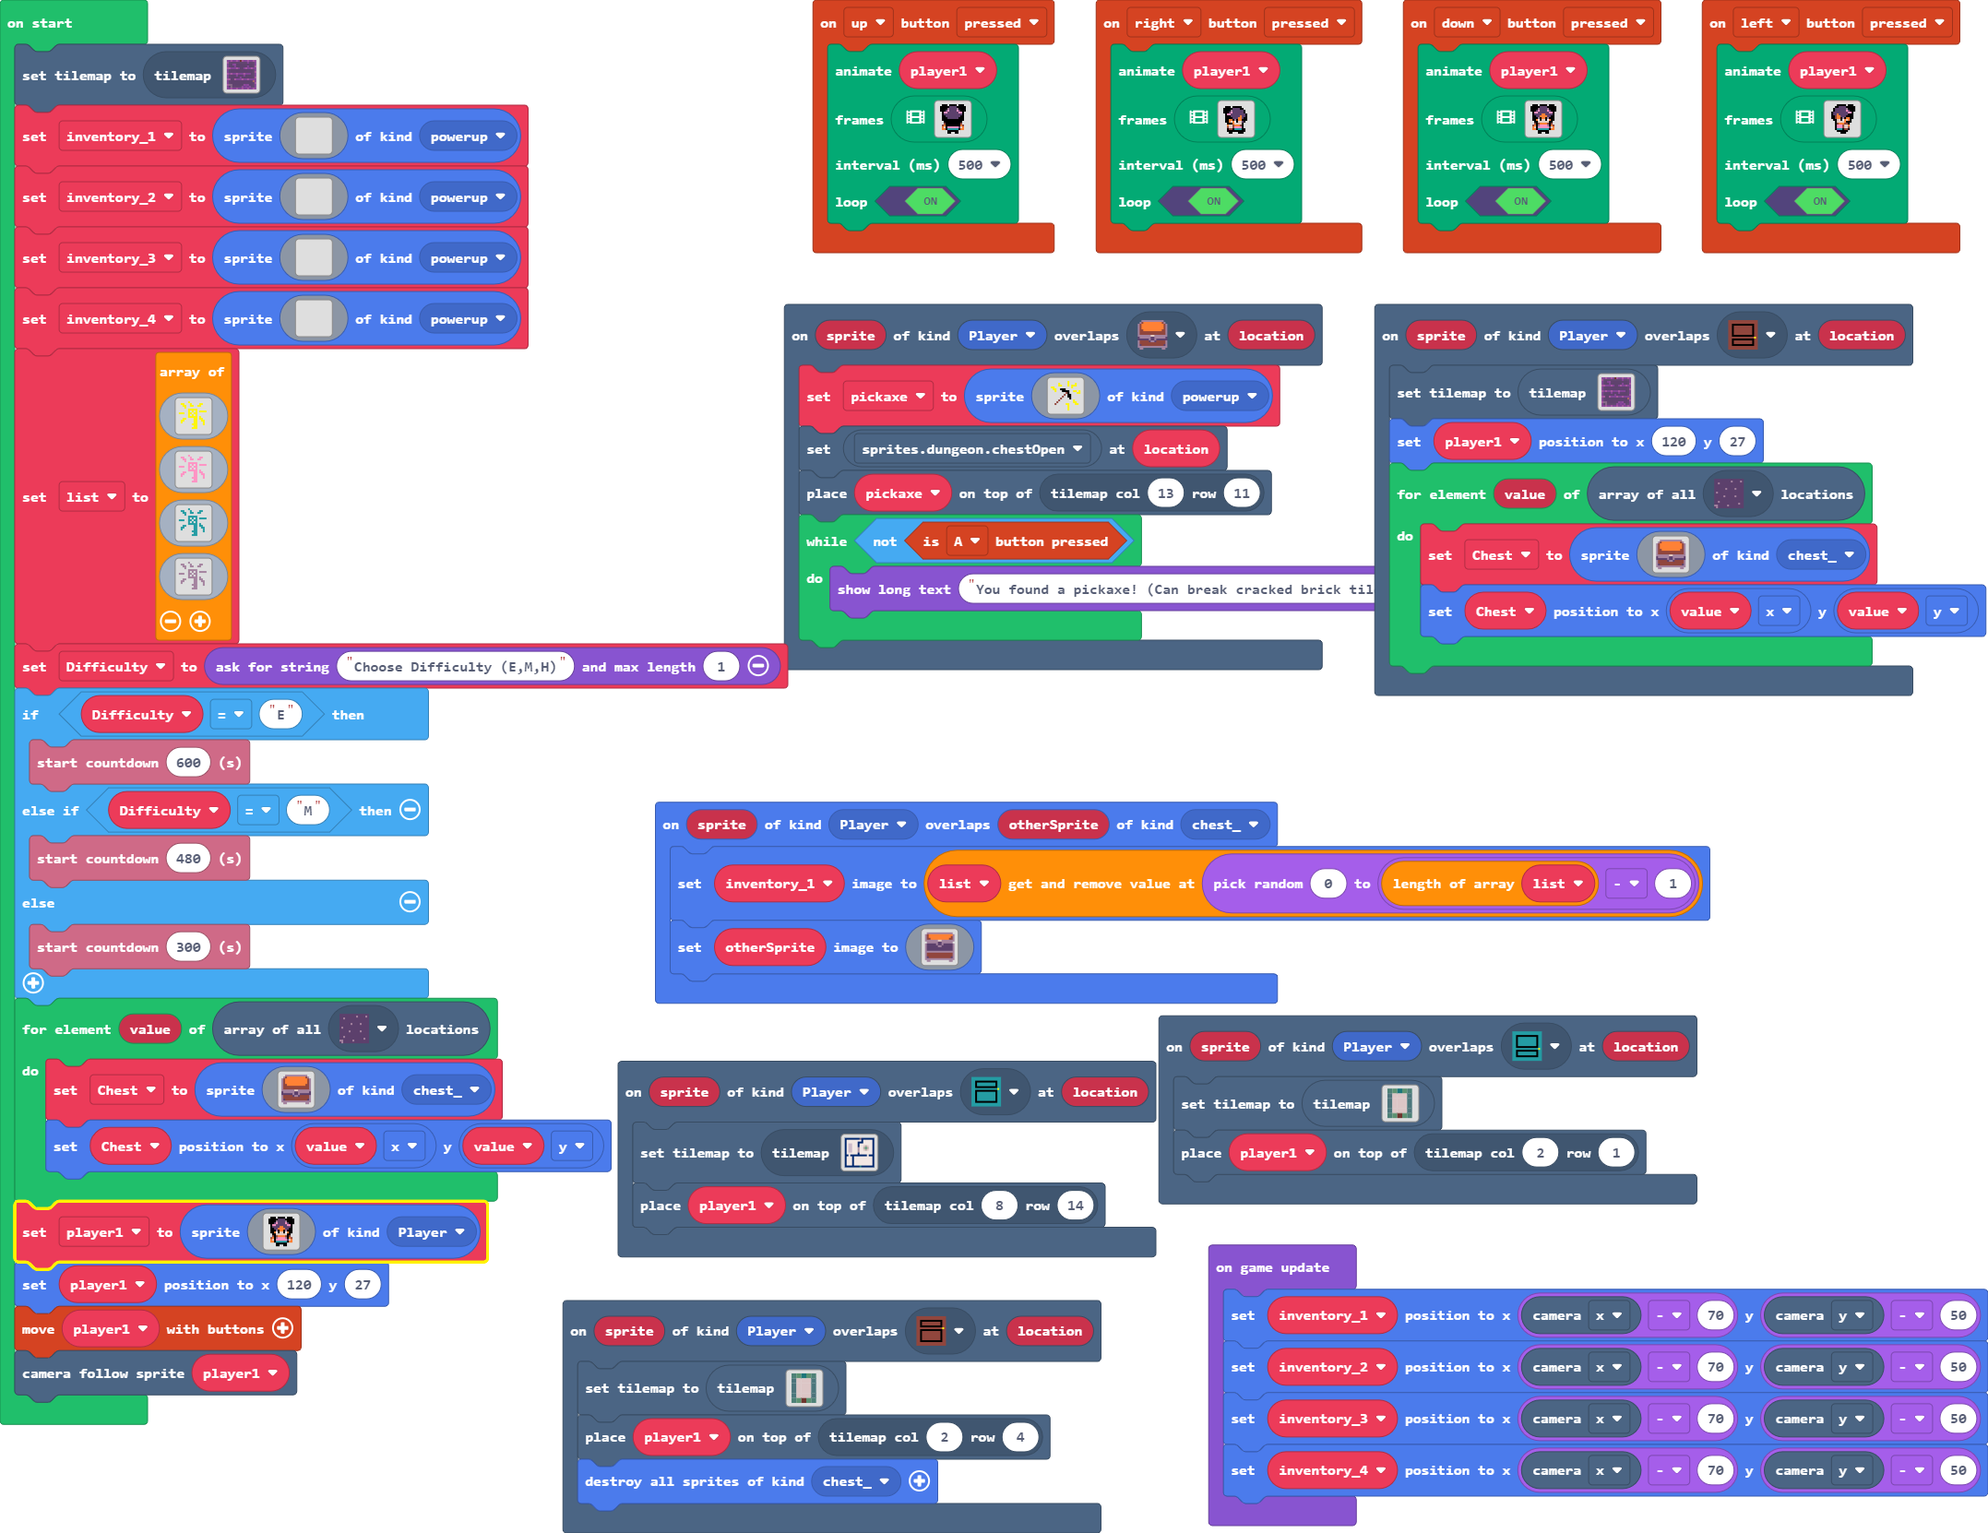
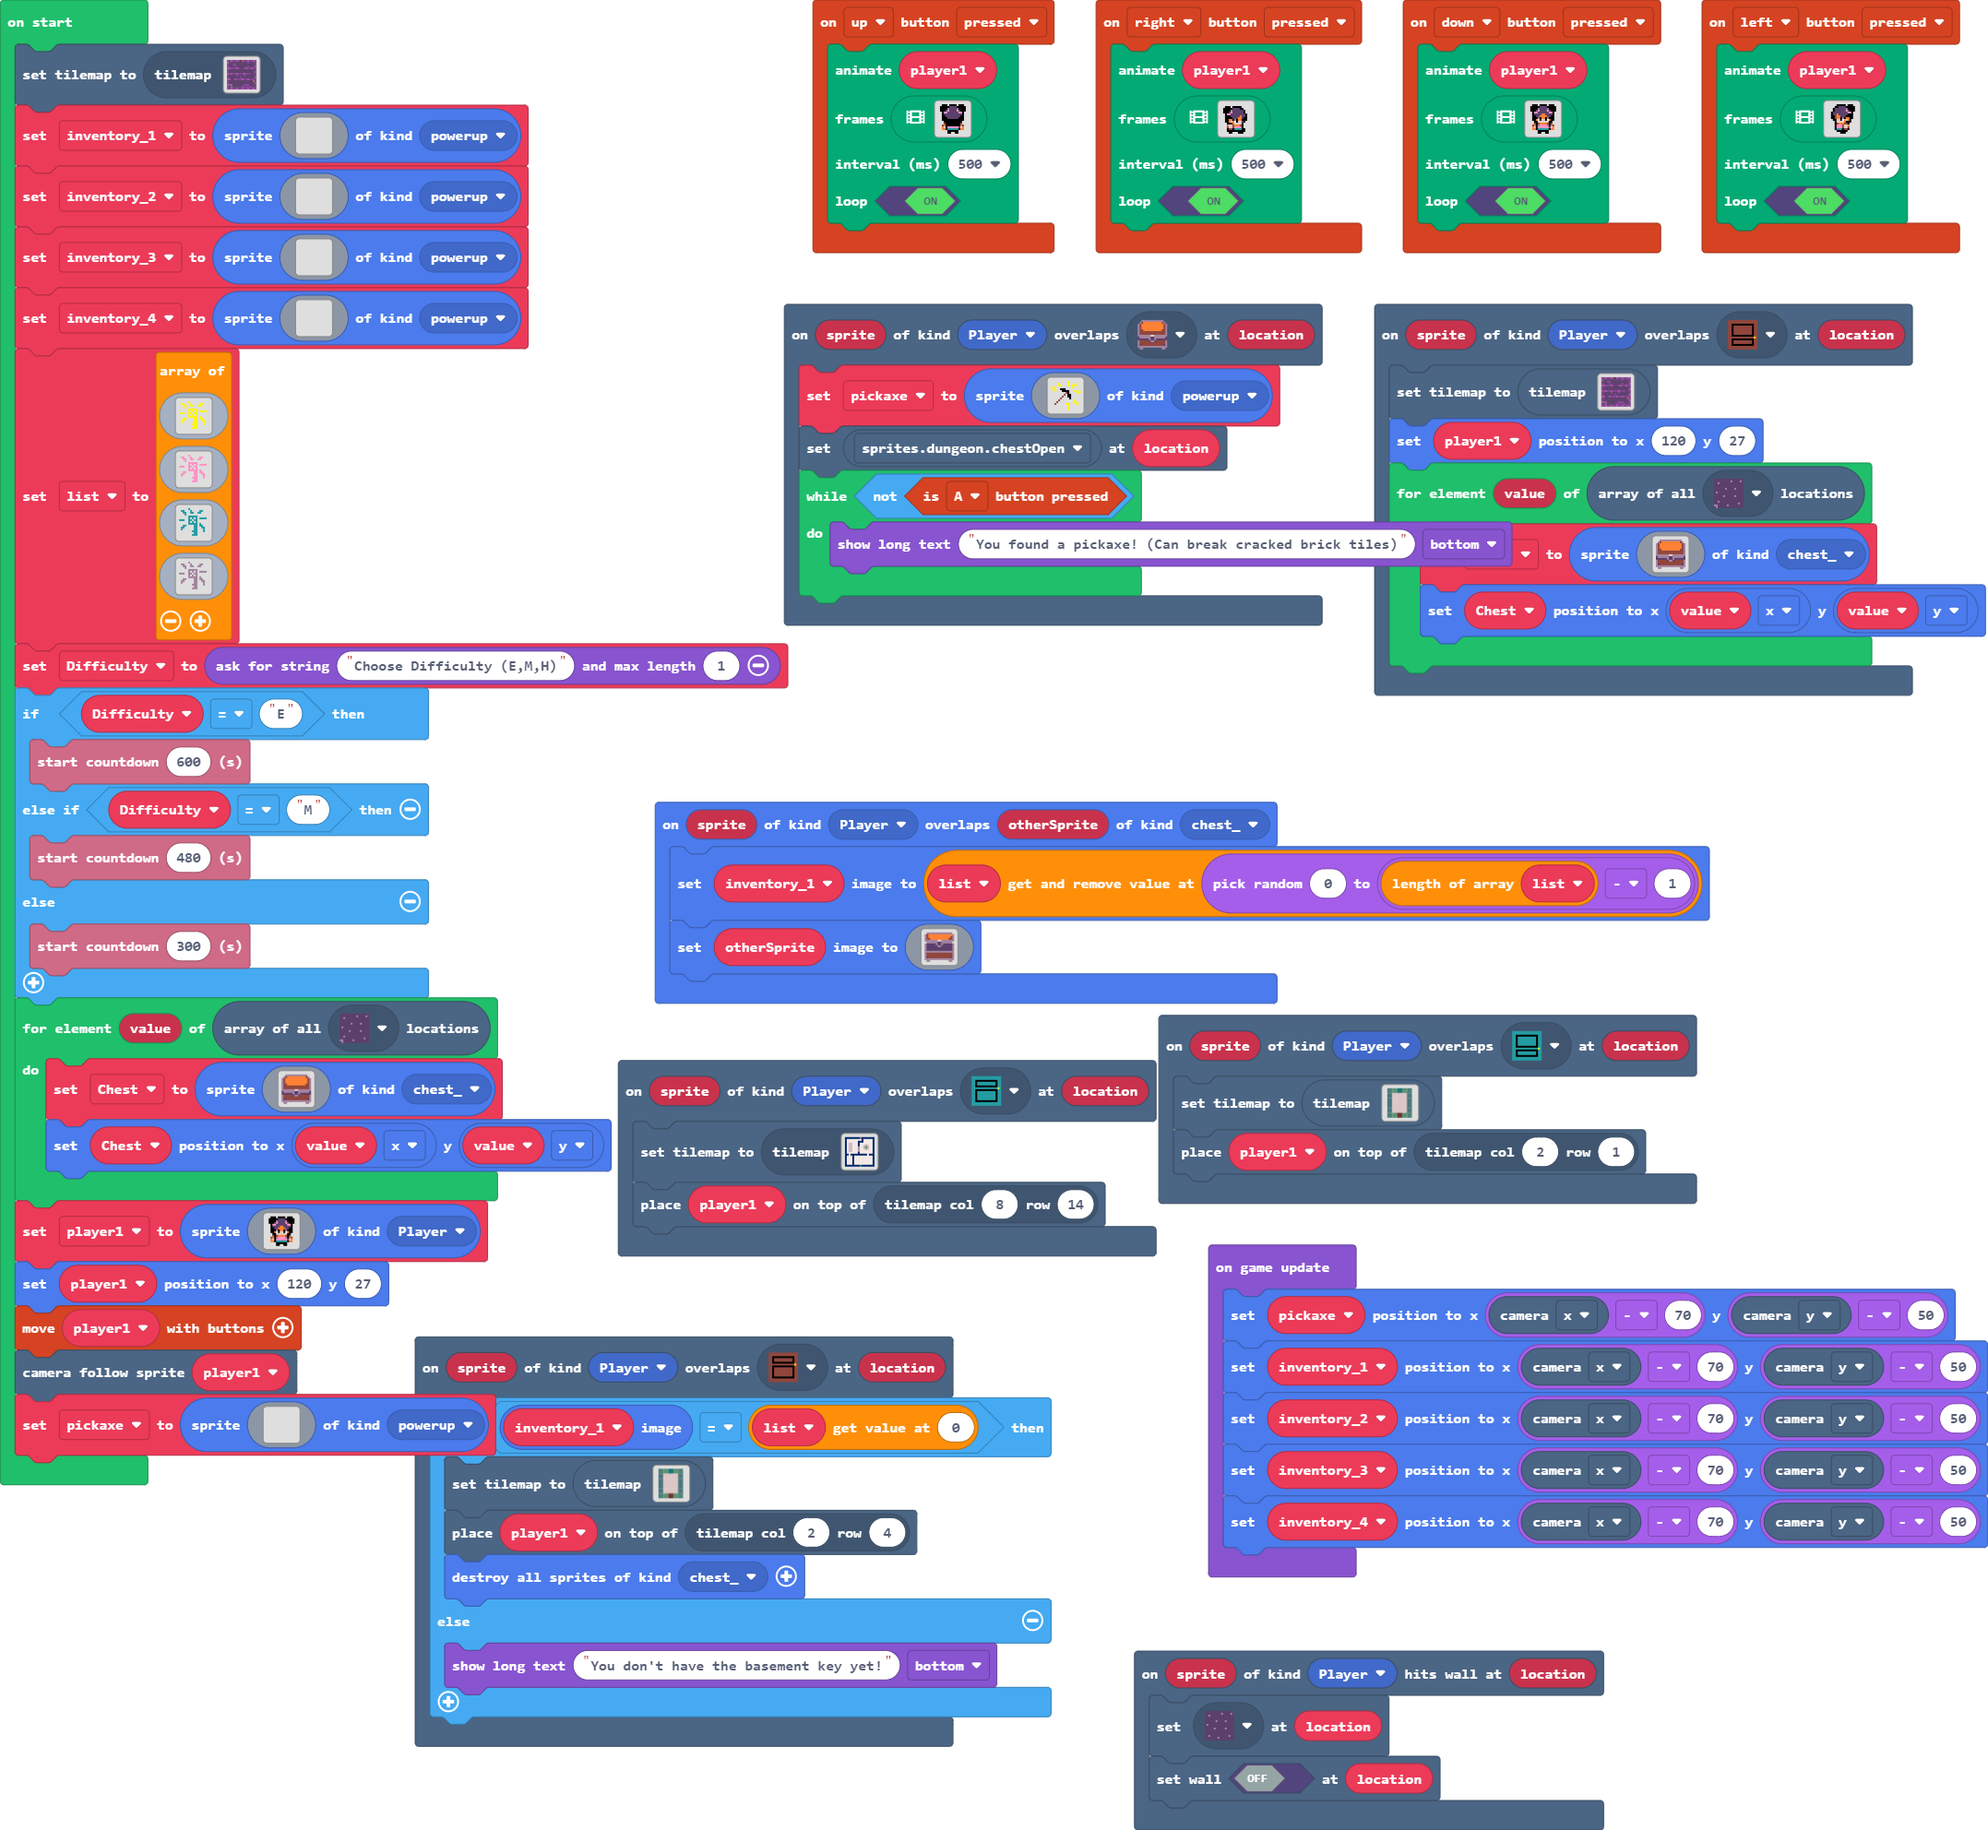
Update main.blocks, main.ts, tilemap.g.jres, tilemap.g.ts

diff --git a/tilemap.g.ts b/tilemap.g.ts
@@ -73,6 +73,25 @@ namespace myTiles {
 . . . . . . . . . . . . . . . . 
 . . . . . . . . . . . . . . . . 
 `, [myTiles.transparency16], TileScale.Sixteen);
+            case "level3":
[1 lines of base64/hex data omitted]
+2 2 2 2 2 2 2 2 . 2 2 2 2 2 2 2 
+2 . . . . . . . . 2 . . . . . 2 
+2 . . . . . . 2 2 2 . . . . . 2 
+2 . . . . . . 2 . . . . . . . 2 
+2 . . . . . . 2 . . 2 2 2 . . 2 
+2 . . . . . . 2 . . 2 2 2 . . 2 
+2 . . . . . . 2 . . 2 2 2 . . 2 
+2 . . . . . . 2 . . . . . . . 2 
+2 . . . . . . 2 . . . . . . . 2 
+2 2 . 2 2 2 2 2 2 2 2 2 . 2 2 2 
+2 . . . 2 . . . . . . . . . . 2 
+2 . . . 2 . . . . . . . . . . 2 
+2 . . . 2 . . . . . . . . . . 2 
+2 . . . 2 . . . . . . . . . . 2 
+2 . . . 2 . . . . . . . . . . 2 
+2 2 2 2 2 2 2 2 . 2 2 2 2 2 2 2 
+`, [myTiles.transparency16,myTiles.tile5,myTiles.tile6,myTiles.tile9,myTiles.tile10,sprites.dungeon.floorLight3,sprites.dungeon.floorLight2,myTiles.tile3,myTiles.tile12,myTiles.tile13,myTiles.tile14,myTiles.tile15,sprites.builtin.forestTiles0], TileScale.Sixteen);
             case "level6":
             case "level6":return tiles.createTilemap(hex`1000100000000000000000000000000000000000000000000000000000000000000000000000000000000000000000000000000000000000000000000000000000000000000000000000000000000000000000000000000000000000000000000000000000000000000000000000000000000000000000000000000000000000000000000000000000000000000000000000000000000000000000000000000000000000000000000000000000000000000000000000000000000000000000000000000000000000000000000000000000000000000000000000000000000000000000000000000000000000000000000000000000000000000000000000000000000000`, img`
 . . . . . . . . . . . . . . . . 
@@ -149,25 +168,15 @@ namespace myTiles {
 . . . . . . . . . . . . . . . . 
 . . . . . . . . . . . . . . . . 
 `, [myTiles.transparency16], TileScale.Sixteen);
-            case "level3":
[1 lines of base64/hex data omitted]
-2 2 2 2 2 2 2 2 . 2 2 2 2 2 2 2 
-2 . . . . . . . . 2 . . . . . 2 
-2 . . . . . . 2 2 2 . . . . . 2 
-2 . . . . . . 2 . . . . . . . 2 
-2 . . . . . . 2 . . 2 2 2 . . 2 
-2 . . . . . . 2 . . 2 2 2 . . 2 
-2 . . . . . . 2 . . 2 2 2 . . 2 
-2 . . . . . . 2 . . . . . . . 2 
-2 . . . . . . 2 . . . . . . . 2 
-2 2 . 2 2 2 2 2 2 2 2 2 . 2 2 2 
-2 . . . 2 . . . . . . . . . . 2 
-2 . . . 2 . . . . . . . . . . 2 
-2 . . . 2 . . . . . . . . . . 2 
-2 . . . 2 . . . . . . . . . . 2 
-2 . . . 2 . . . . . . . . . . 2 
-2 2 2 2 2 2 2 2 . 2 2 2 2 2 2 2 
-`, [myTiles.transparency16,myTiles.tile5,myTiles.tile6,myTiles.tile9,myTiles.tile10,sprites.dungeon.floorLight3,sprites.dungeon.floorLight2,myTiles.tile3,myTiles.tile12,myTiles.tile13,myTiles.tile14,myTiles.tile15,sprites.builtin.forestTiles0], TileScale.Sixteen);
+            case "level5":
[1 lines of base64/hex data omitted]
+2 2 . 2 2 
+2 . . . 2 
+2 . . . 2 
+2 . . . 2 
+2 . . . 2 
+2 2 . 2 2 
+`, [myTiles.transparency16,myTiles.tile2,myTiles.tile4,sprites.dungeon.greenOuterEast0,sprites.dungeon.greenOuterWest1,sprites.dungeon.greenOuterEast1,sprites.dungeon.greenOuterWest0,sprites.dungeon.greenOuterSouthEast,sprites.dungeon.greenOuterSouthWest,sprites.dungeon.greenOuterNorthEast,sprites.dungeon.greenOuterSouth2,sprites.dungeon.greenOuterNorth2,sprites.dungeon.greenOuterNorthWest,sprites.dungeon.floorLight0], TileScale.Sixteen);
             case "level1":
[1 lines of base64/hex data omitted]
 2 2 2 2 2 2 2 . 2 2 2 2 2 2 2 2 
@@ -187,15 +196,6 @@ namespace myTiles {
 2 . 2 . . . . . 2 2 2 2 2 . . 2 
 2 2 2 2 2 2 2 2 2 2 2 2 2 2 2 2 
 `, [myTiles.transparency16,sprites.dungeon.purpleOuterNorthEast,sprites.dungeon.purpleOuterNorthWest,sprites.dungeon.purpleOuterSouthEast,sprites.dungeon.purpleOuterSouthWest,sprites.dungeon.purpleOuterSouth1,sprites.dungeon.purpleOuterEast0,sprites.dungeon.purpleOuterWest1,sprites.dungeon.purpleOuterNorth1,sprites.dungeon.darkGroundNorthWest0,sprites.dungeon.darkGroundNorthEast0,sprites.dungeon.darkGroundSouthEast0,sprites.dungeon.darkGroundSouth,sprites.dungeon.darkGroundNorth,sprites.dungeon.darkGroundEast,sprites.dungeon.darkGroundWest,sprites.dungeon.darkGroundCenter,sprites.dungeon.purpleOuterNorth2,sprites.dungeon.purpleOuterWest2,sprites.dungeon.purpleOuterSouth2,sprites.dungeon.purpleOuterEast2,myTiles.tile1,sprites.dungeon.purpleInnerNorthEast,sprites.dungeon.purpleInnerNorthWest,sprites.dungeon.purpleOuterWest0,sprites.dungeon.floorDark3,sprites.dungeon.darkGroundNorthEast1,sprites.dungeon.chestClosed], TileScale.Sixteen);
-            case "level5":
[1 lines of base64/hex data omitted]
-2 2 . 2 2 
-2 . . . 2 
-2 . . . 2 
-2 . . . 2 
-2 . . . 2 
-2 2 . 2 2 
-`, [myTiles.transparency16,myTiles.tile2,myTiles.tile4,sprites.dungeon.greenOuterEast0,sprites.dungeon.greenOuterWest1,sprites.dungeon.greenOuterEast1,sprites.dungeon.greenOuterWest0,sprites.dungeon.greenOuterSouthEast,sprites.dungeon.greenOuterSouthWest,sprites.dungeon.greenOuterNorthEast,sprites.dungeon.greenOuterSouth2,sprites.dungeon.greenOuterNorth2,sprites.dungeon.greenOuterNorthWest,sprites.dungeon.floorLight0], TileScale.Sixteen);
         }
         return null;
     })

diff --git a/main.ts b/main.ts
@@ -86,10 +86,18 @@ controller.up.onEvent(ControllerButtonEvent.Pressed, function () {
     true
     )
 })
+scene.onHitWall(SpriteKind.Player, function (sprite, location) {
+    tiles.setTileAt(location, sprites.dungeon.darkGroundCenter)
+    tiles.setWallAt(location, false)
+})
 scene.onOverlapTile(SpriteKind.Player, assets.tile`myTile`, function (sprite, location) {
-    tiles.setCurrentTilemap(tilemap`level5`)
-    tiles.placeOnTile(player1, tiles.getTileLocation(2, 4))
-    sprites.destroyAllSpritesOfKind(SpriteKind.chest_)
+    if (inventory_1.image == list[0]) {
+        tiles.setCurrentTilemap(tilemap`level5`)
+        tiles.placeOnTile(player1, tiles.getTileLocation(2, 4))
+        sprites.destroyAllSpritesOfKind(SpriteKind.chest_)
+    } else {
+        game.showLongText("You don't have the basement key yet!", DialogLayout.Bottom)
+    }
 })
 scene.onOverlapTile(SpriteKind.Player, assets.tile`myTile7`, function (sprite, location) {
     tiles.setCurrentTilemap(tilemap`level5`)
@@ -195,7 +203,6 @@ scene.onOverlapTile(SpriteKind.Player, sprites.dungeon.chestClosed, function (sp
         . . . . . . . . . 5 . . . . . . 
         `, SpriteKind.powerup)
     tiles.setTileAt(location, sprites.dungeon.chestOpen)
-    tiles.placeOnTile(pickaxe, tiles.getTileLocation(13, 11))
     while (!(controller.A.isPressed())) {
         game.showLongText("You found a pickaxe! (Can break cracked brick tiles)", DialogLayout.Bottom)
     }
@@ -524,7 +531,26 @@ player1 = sprites.create(img`
 player1.setPosition(120, 27)
 controller.moveSprite(player1)
 scene.cameraFollowSprite(player1)
+pickaxe = sprites.create(img`
+    . . . . . . . . . . . . . . . . 
+    . . . . . . . . . . . . . . . . 
+    . . . . . . . . . . . . . . . . 
+    . . . . . . . . . . . . . . . . 
+    . . . . . . . . . . . . . . . . 
+    . . . . . . . . . . . . . . . . 
+    . . . . . . . . . . . . . . . . 
+    . . . . . . . . . . . . . . . . 
+    . . . . . . . . . . . . . . . . 
+    . . . . . . . . . . . . . . . . 
+    . . . . . . . . . . . . . . . . 
+    . . . . . . . . . . . . . . . . 
+    . . . . . . . . . . . . . . . . 
+    . . . . . . . . . . . . . . . . 
+    . . . . . . . . . . . . . . . . 
+    . . . . . . . . . . . . . . . . 
+    `, SpriteKind.powerup)
 game.onUpdate(function () {
+    pickaxe.setPosition(scene.cameraProperty(CameraProperty.X) - 70, scene.cameraProperty(CameraProperty.Y) - 50)
     inventory_1.setPosition(scene.cameraProperty(CameraProperty.X) - 70, scene.cameraProperty(CameraProperty.Y) - 50)
     inventory_2.setPosition(scene.cameraProperty(CameraProperty.X) - 70, scene.cameraProperty(CameraProperty.Y) - 50)
     inventory_3.setPosition(scene.cameraProperty(CameraProperty.X) - 70, scene.cameraProperty(CameraProperty.Y) - 50)
